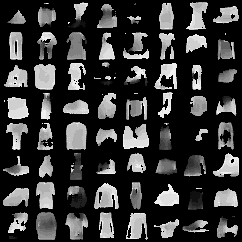
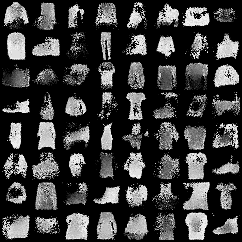
Fixes the manifold generation code to sample probabilistically instead of argmax

diff --git a/assignment_3_13677640/code/utils.py b/assignment_3_13677640/code/utils.py
@@ -100,10 +100,13 @@ def visualize_manifold(decoder, grid_size=20):
 
     # get reconstructions
     x = decoder(z)
-    x = torch.sigmoid(x)
-    x = x.argmax(dim=1).unsqueeze(1)
+
+    P = torch.nn.functional.softmax(x, dim=1)
+    Q = P.permute((0, 2, 3, 1)).reshape((-1, 16))
+    x = torch.multinomial(Q, 1).reshape((grid_size * grid_size, 28, 28, 1)).permute((0, 3, 1, 2))
+
     # convert to [0, 1] floats
-    x = (x / 16.0).float()
+    x = (x / 15.0).float()
 
     # construct the image grid
     img_grid = make_grid(x, nrow=grid_size)

diff --git a/assignment_3_13677640/code/train_pl.py b/assignment_3_13677640/code/train_pl.py
@@ -177,7 +177,7 @@ class GenerateCallback(pl.Callback):
         x_samples = x_samples.cpu().detach()
 
         # bring values in float range [0,1]
-        x_samples = (x_samples / 16.0).float()
+        x_samples = (x_samples / 15.0).float()
 
         # create a grid
         grid = make_grid(x_samples, nrow=8, ncols=8)
